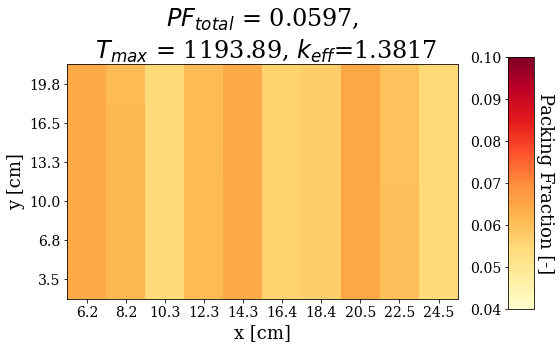
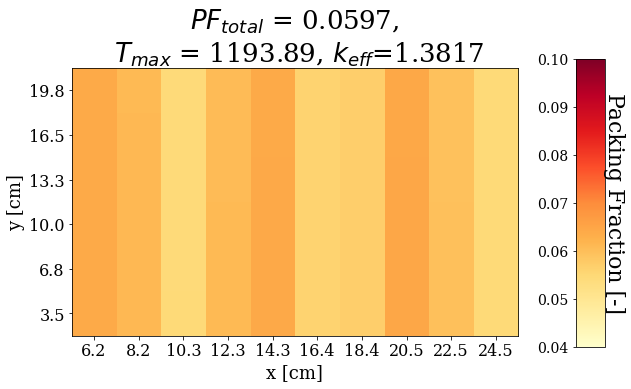
writing

Changed region(s): [[0.0, 0.0, 1.0, 1.0]]

diff --git a/docs/ahtr_rollo_assem_discussion.tex b/docs/ahtr_rollo_assem_discussion.tex
@@ -339,8 +339,9 @@ $T_{max}$ reactor model 9 and simulation a-1b's most-minimized $T_{max}$ reactor
 Figure \ref{fig:a-2a-temp-triso-comparison} shows that simulation a-2a's most-minimized 
 $T_{max}$ reactor model and simulation a-1b's most-minimized $T_{max}$ reactor model 
 have similar almost constant TRISO distributions with packing fraction standard 
-deviations of $0.003$ and $0.0009$, respectively.
-However, they have different $PF_{total}$ values. 
+deviations of $0.004$ and $0.0009$, respectively.
+However, they have different $PF_{total}$ values, and simulation a-2a's most-minimized 
+$T_{max}$'s TRISO distribution is not as flat as simulation a-1b. 
 
 Figure \ref{fig:a-2a-balanced-reactor-model} shows reactor model 13 which 
 minimized both $PF_{total}$ and $T_{max}$ to an equal extent by balancing influences 
